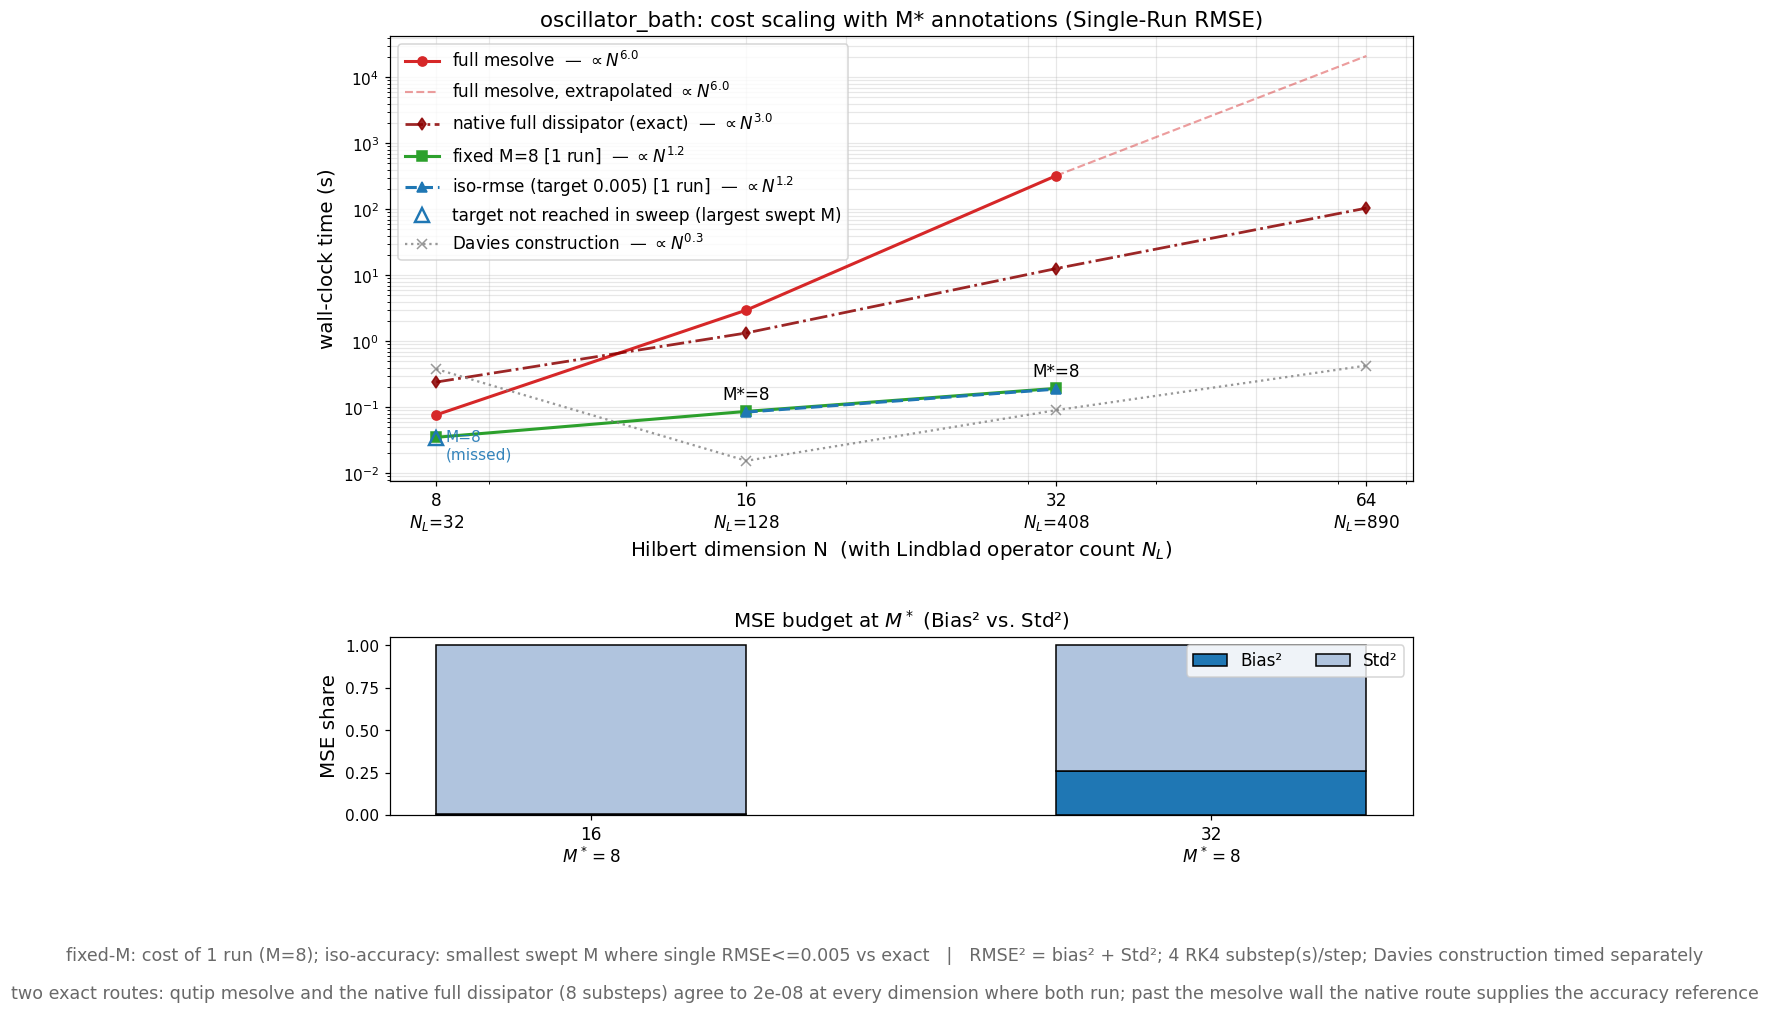
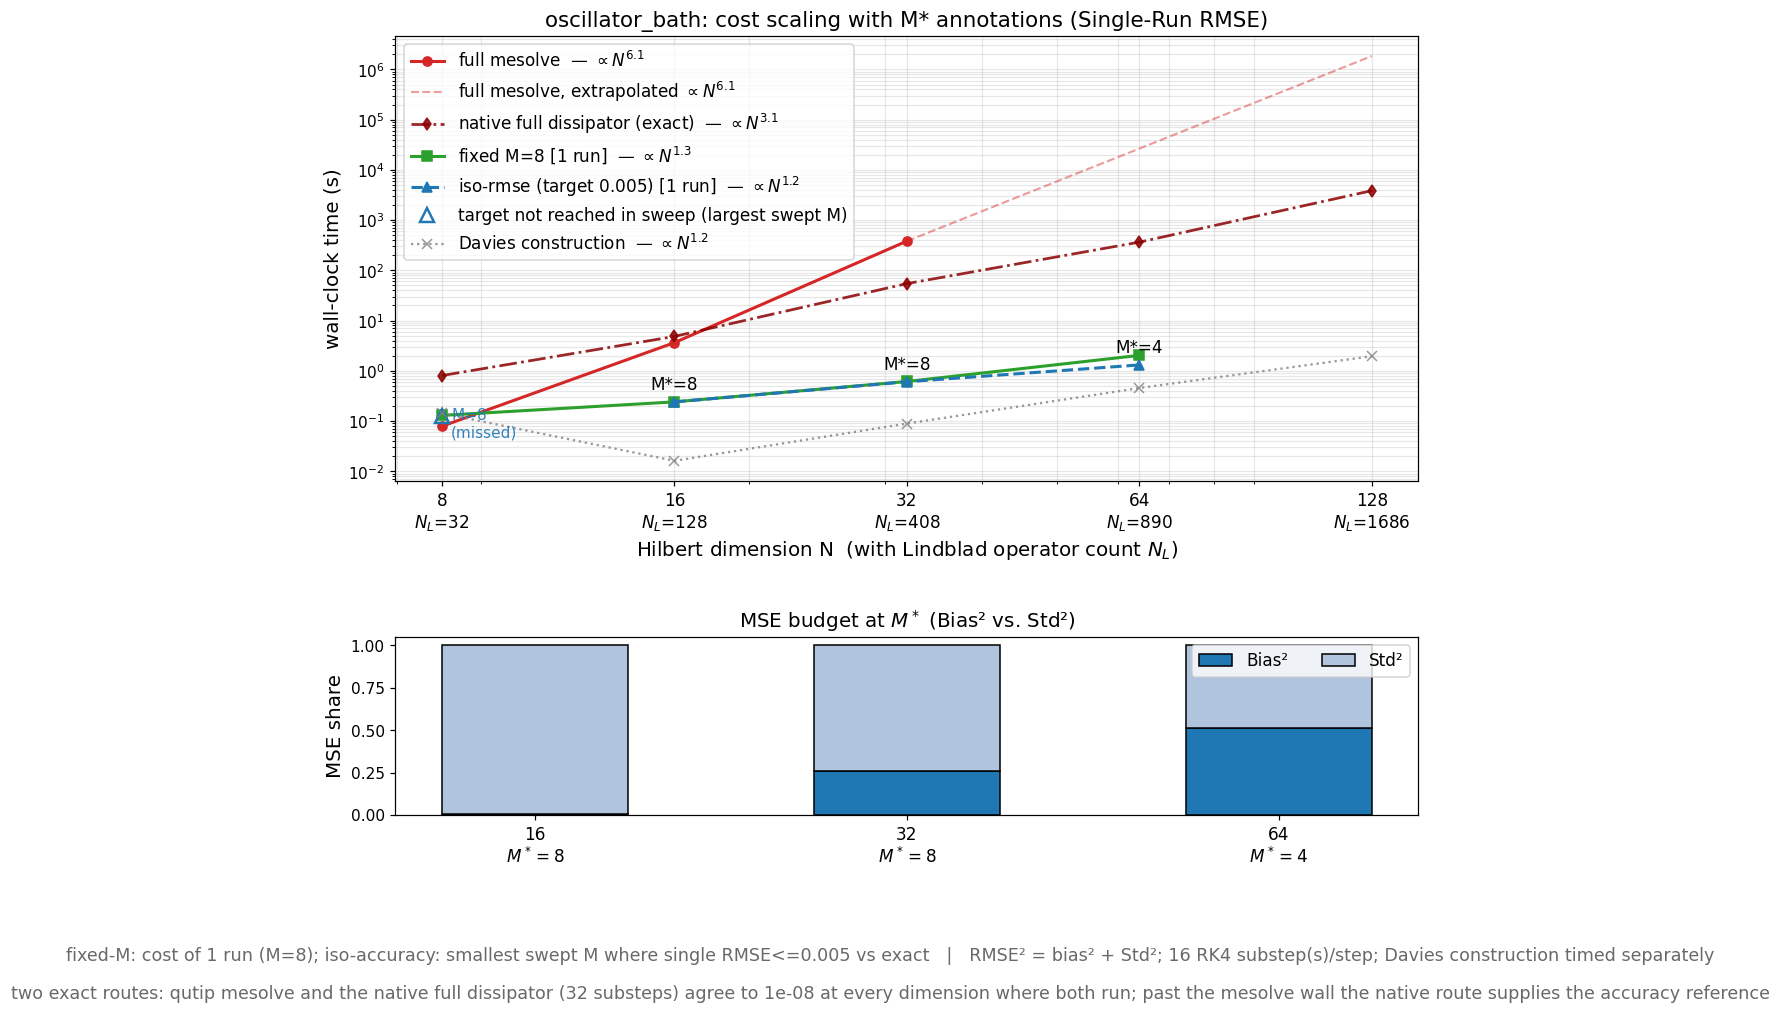
Result 2: extend the oscillator, and document the stiffness wall it hit
Job 19591147, rerun at 16 RK4 substeps after the 4-substep attempt diverged at
dimension 64 and stopped the sweep there. The higher resolution recovers that
point and adds the next one:

  native exact route   dim 64  -> dim 128
  SLB fixed-M curve    dim 32  -> dim 64
  iso-accuracy curve   mostly missed -> M* = 8, 8, 4 at dims 16, 32, 64

The iso curve is the real gain. It previously had no usable points on this
system; it now reaches the target at three dimensions, and M* FALLS as the
system grows -- the same behaviour Result 4 reports with M* = 1 throughout, and
the same favourable ladder structure section 2.6 attributes it to.

Exponents that moved with the longer sweep: mesolve N^5.2 -> N^6.1 and the
native route N^3.0 -> N^3.1. The SLB fixed-M fit is unchanged at N^1.3 and is
still explicitly not quoted as a scaling law, since its per-doubling ratios are
not monotone. The sentence resting the scaling claim on the chain now cites
N^1.9 rather than N^1.6, following the same re-fit in the previous commit.

The new paragraph explains why the SLB curve stops one dimension short of the
exact one, because an unexplained gap invites the wrong reading. It is
stiffness, not memory: at dimension 128 the bundled generator diverges at the 16
substeps this panel uses throughout. The run stops rather than quietly switching
to 32, because a point integrated at a different resolution is not
cost-comparable with the rest of a uniform-substep curve. So that dimension
[…]

diff --git a/benchmarks/BENCHMARKS.md b/benchmarks/BENCHMARKS.md
@@ -1223,7 +1223,7 @@ past it the exact solver is impractical.
 
 **The cost curves (top).** The exact full-dissipator `mesolve` evolves the
 density matrix with all $N_L$ collapse operators; its fitted slope is the
-steepest on the plot ($N^{3.0}$ on the chain, $N^{5.2}$ on the oscillator), and
+steepest on the plot ($N^{3.0}$ on the chain, $N^{6.1}$ on the oscillator), and
 past dim 32 it cannot run here at all — its superoperator construction exhausts
 even 32 GB. SLB at a *fixed* bundle size ($M=8$) only ever propagates $M$
 operators, so one solve is cheap; the SLB and construction curves need no exact
@@ -1239,14 +1239,29 @@ dim 4–256; extending the sweep to 512 steepened it, which is the honest
 direction — the earlier fit was flattered by the small $N$ points where
 fixed overhead dominates.) On the oscillator the same
 curve fits $N^{1.3}$, but the per-doubling cost ratios are *not* monotone (a
-large jump at dim 8→32, then a much smaller one at 32→128 as the dense linear
+large jump at dim 8→32, then a much smaller one at 32→64 as the dense linear
 algebra reaches its efficient BLAS regime), so that number is a least-squares
 summary of a curved trend, not a scaling exponent, and is **not quoted as
 one**. The scaling *claim* of this work therefore rests on the chain's
-$N^{1.6}$; the oscillator panel is included as the decisive visual of the exact
-solver's wall — `mesolve` at $N^{5.2}$ and the native route at $N^{3.0}$ both
+$N^{1.9}$; the oscillator panel is included as the decisive visual of the exact
+solver's wall — `mesolve` at $N^{6.1}$ and the native route at $N^{3.1}$ both
 climbing into hours per solve while SLB stays near-flat — rather than for a
 fitted SLB exponent.
+
+**Where the oscillator's SLB curve stops, and why it is not a memory wall.**
+It ends at dimension 64 while the exact route continues to 128. The reason is
+*stiffness*, not memory: at dimension 128 the bundled generator diverges at the
+16 RK4 substeps this panel uses throughout, growing to $10^6$ while still
+finite. The run stops the cost curve there rather than quietly switching to 32
+substeps, because a point integrated at a different resolution is no longer
+cost-comparable with the rest of the curve — the whole panel is a
+uniform-substep benchmark. The exact reference at that dimension *did* need 32
+substeps, and its certification escalated **upward** to 64 when the coarse
+partner diverged, agreeing to $3.6\times10^{-8}$. So dimension 128 carries an
+exact point and no SLB point, which is an honest gap rather than a missing
+measurement. Bundling at that size is possible; it is simply not measurable
+*on this axis* without changing the integrator, which would change what the
+axis means.
 
 **A second exact route, as a control.** The dash-dot curve is the same Lindblad
 equation propagated by the package's own fixed-step RK4 with *all* $N_L$
